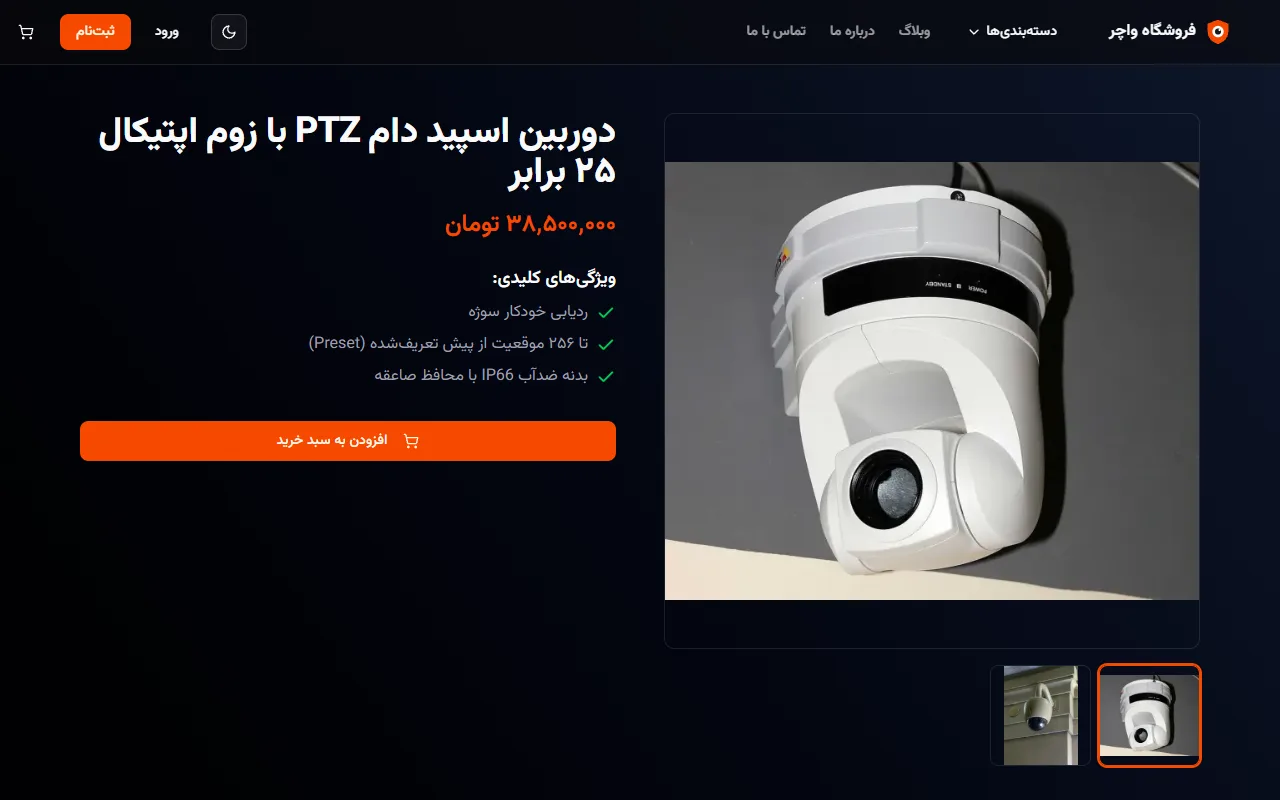
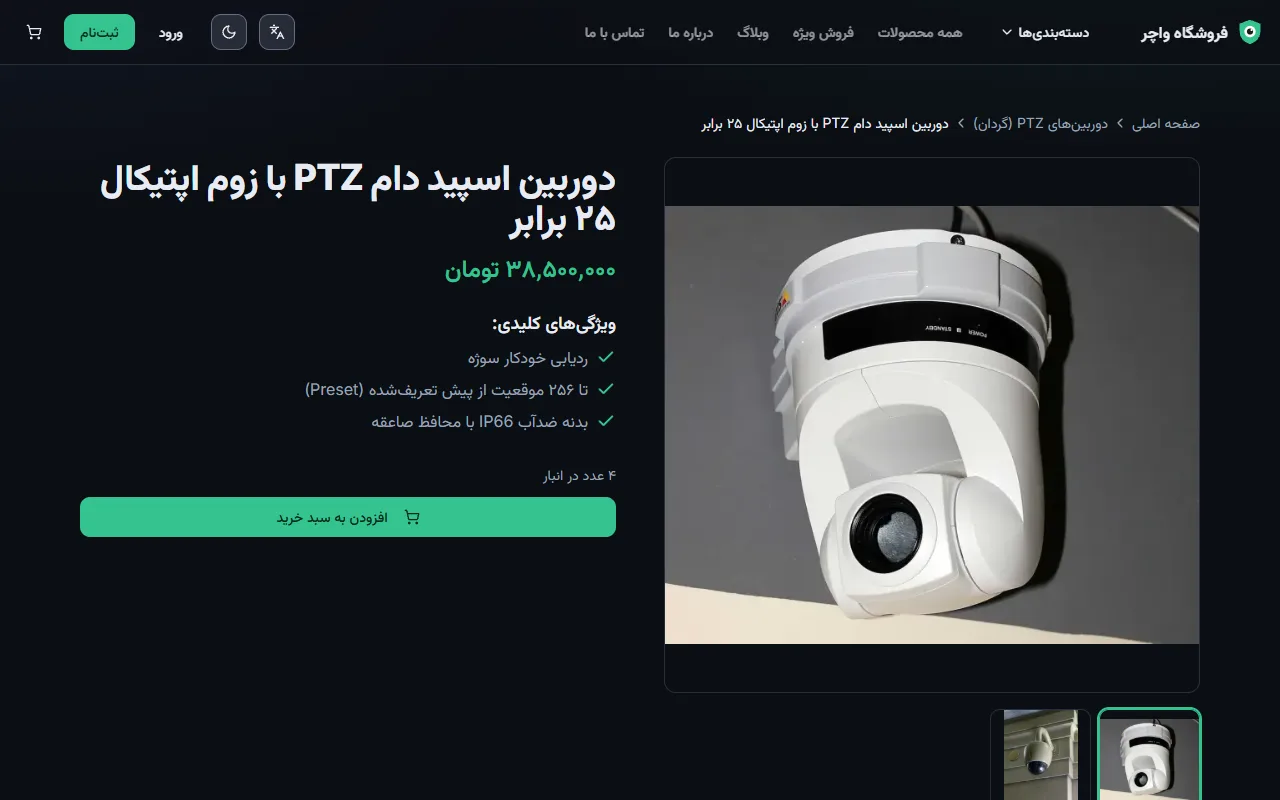
test(e2e): cancelled payments, logging out, refunds; fresh README images
- New browser tests: a payment cancelled at the gateway cancels the
  order; a customer logs out and back in to the page they asked for; the
  administrator cancels a paid order, sees the payment to refund, records
  the refund, and the customer sees it refunded.
- The e2e stack allows 30 logins a minute: the tests now log in more than
  5 times, all from the storefront's one address.
- Admin notices are found by their text: Payload's page has a status
  region of its own.
- E2E_GATEWAY_IN_STACK lets the tests run against apps outside Docker.
- The README's gif and screenshots, recaptured in the Signal theme from a
  freshly seeded store, without the development badge.

diff --git a/e2e/tests/account.spec.ts b/e2e/tests/account.spec.ts
@@ -1,0 +1,186 @@
+// e2e/tests/account.spec.ts
+//
+// What happens around a purchase: a customer who cancels at the gateway,
+// logging out and back in, and an administrator cancelling a paid order
+// and recording its refund. Each test registers its own customer.
+
+import { expect, test, type Page } from '@playwright/test';
+import { randomBytes } from 'node:crypto';
+import {
+  adminAccount,
+  CMS_URL,
+  GATEWAY_FROM_TESTS,
+  GATEWAY_IN_STACK,
+  persianDigits,
+} from './env';
+
+const PRODUCT = 'چشمی دزدگیر PIR دیواری';
+
+interface Customer {
+  email: string;
+  password: string;
+}
+
+// The browser cannot resolve the gateway's in-stack name: send those
+// requests to the mock's published port. cancel: the customer presses
+// "cancel" on the payment page (the mock then returns Status=NOK).
+async function reachGateway(page: Page, { cancel = false } = {}) {
+  await page.route(`${GATEWAY_IN_STACK}/**`, (route) => {
+    const url = new URL(
+      route.request().url().replace(GATEWAY_IN_STACK, GATEWAY_FROM_TESTS),
+    );
+    if (cancel && url.pathname.startsWith('/pg/StartPay/')) {
+      url.searchParams.set('cancel', '1');
+    }
+    return route.continue({ url: url.toString() });
+  });
+}
+
+// A new account, logged in straight away.
+async function register(page: Page): Promise<Customer> {
+  const customer = {
+    email: `e2e-account-${Date.now()}-${randomBytes(3).toString('hex')}@example.test`,
+    password: `e2e-${randomBytes(12).toString('hex')}-Pw`,
+  };
+  await page.goto('/register');
+  await page.getByLabel('ایمیل').fill(customer.email);
+  await page.getByLabel('رمز عبور', { exact: true }).fill(customer.password);
+  await page.getByLabel('تکرار رمز عبور').fill(customer.password);
+  await page.getByRole('button', { name: 'ثبتنام' }).click();
+  await expect(page).toHaveURL(/\/fa$/);
+  return customer;
+}
+
+// One unit of the product, through checkout to the gateway and back to the
+// result page. Returns the order number.
+async function buyOne(page: Page): Promise<number> {
+  await page.goto(`/products?q=${encodeURIComponent('دزدگیر')}`);
+  await page.getByRole('link', { name: PRODUCT }).first().click();
+  await expect(page.getByRole('heading', { level: 1 })).toHaveText(PRODUCT);
+  await page.getByRole('button', { name: 'افزودن به سبد خرید' }).click();
+  await page.getByRole('button', { name: /باز کردن سبد خرید، ۱ کالا/ }).click();
+  await page.getByRole('link', { name: 'ادامه و تسویه حساب' }).click();
+  await expect(page).toHaveURL(/\/checkout$/);
+  await page.getByLabel('نام و نام خانوادگی گیرنده').fill('مشتری آزمایشی');
+  await page.getByLabel('شماره موبایل').fill('09120000000');
+  await page.getByLabel('استان').fill('تهران');
+  await page.getByLabel('شهر').fill('تهران');
+  await page.getByLabel('نشانی کامل').fill('خیابان آزمایش، پلاک ۲');
+  await page.getByLabel('کد پستی').fill('1234567890');
+  await page.getByRole('button', { name: 'ثبت سفارش و پرداخت' }).click();
+  await expect(page).toHaveURL(/\/payment\/result\?orderId=\d+/, {
+    timeout: 30_000,
+  });
+  return Number(new URL(page.url()).searchParams.get('orderId'));
+}
+
+function orderCard(page: Page, orderId: number) {
+  return page.getByRole('listitem').filter({
+    has: page.getByRole('heading', {
+      name: `سفارش #${persianDigits(orderId)}`,
+    }),
+  });
+}
+
+test('a payment cancelled at the gateway cancels the order', async ({
+  page,
+}) => {
+  await reachGateway(page, { cancel: true });
+  await register(page);
+
+  const orderId = await buyOne(page);
+
+  await expect(
+    page.getByRole('heading', { name: 'پرداخت ناموفق' }),
+  ).toBeVisible();
+  await page.goto('/profile');
+  const card = orderCard(page, orderId);
+  await expect(card).toContainText('لغوشده');
+  await expect(card).toContainText('به دلیل ناموفق بودن پرداخت لغو شد.');
+});
+
+test('a customer logs out, and logs back in to the page they asked for', async ({
+  page,
+}) => {
+  const customer = await register(page);
+
+  await page.getByRole('button', { name: 'حساب کاربری' }).click();
+  await page.getByRole('menuitem', { name: 'خروج' }).click();
+  await expect(page).toHaveURL(/\/fa$/);
+  await expect(
+    page.getByRole('banner').getByRole('link', { name: 'ورود' }),
+  ).toBeVisible();
+
+  // Account pages send a visitor to the login page, and back afterwards.
+  await page.goto('/profile');
+  await expect(page).toHaveURL(/\/login\?next=/);
+  await page.getByLabel('ایمیل').fill(customer.email);
+  await page.getByLabel('رمز عبور').fill(customer.password);
+  await page.getByRole('button', { name: 'ورود', exact: true }).click();
+  await expect(page).toHaveURL(/\/profile$/);
+  await expect(
+    page.getByRole('heading', { level: 1, name: 'پروفایل من' }),
+  ).toBeVisible();
+});
+
+test('the administrator cancels a paid order and records the refund', async ({
+  page,
+  browser,
+}) => {
+  await reachGateway(page);
+  await register(page);
+  const orderId = await buyOne(page);
+  await expect(
+    page.getByRole('heading', { name: 'پرداخت موفق' }),
+  ).toBeVisible();
+
+  const admin = adminAccount();
+  const adminPage = await (await browser.newContext()).newPage();
+  await adminPage.goto(`${CMS_URL}/admin/login`);
+  await adminPage.locator('input[name="email"]').fill(admin.email);
+  await adminPage.locator('input[name="password"]').fill(admin.password);
+  await adminPage.getByRole('button', { name: /login|ورود/i }).click();
+  await expect(adminPage).toHaveURL(new RegExp(`${CMS_URL}/admin/?$`));
+
+  await adminPage.goto(`${CMS_URL}/admin/orders`);
+  const row = () =>
+    adminPage.locator('tbody tr').filter({
+      has: adminPage.locator('td:first-child', {
+        hasText: new RegExp(`^${orderId}$`),
+      }),
+    });
+
+  // Cancelling asks for a second click, then flags the payment for a refund.
+  await row().getByText('لغو سفارش', { exact: true }).click();
+  await row()
+    .getByRole('button', { name: /تأیید لغو سفارش/ })
+    .click();
+  // Payload has a status region of its own; this is the Orders view's.
+  await expect(
+    adminPage
+      .getByRole('status')
+      .filter({ hasText: `سفارش ${persianDigits(orderId)}` }),
+  ).toContainText('لغو شد و موجودی کالاها برگشت.');
+  await expect(row()).toContainText('نیاز به بازپرداخت');
+  await expect(row()).toContainText('شماره پیگیری');
+
+  // The money went back (in the gateway's panel): record it.
+  await row().getByText('بازپرداخت انجام شد', { exact: true }).click();
+  await row()
+    .getByRole('button', { name: /تأیید بازپرداخت سفارش/ })
+    .click();
+  await expect(
+    adminPage
+      .getByRole('status')
+      .filter({ hasText: `سفارش ${persianDigits(orderId)}` }),
+  ).toContainText('بهعنوان «بازپرداخت شد» علامت خورد.');
+  await expect(row()).toContainText('بازپرداخت شد');
+  await adminPage.context().close();
+
+  // The customer sees it cancelled by the shop, and refunded.
+  await page.goto('/profile');
+  const card = orderCard(page, orderId);
+  await expect(card).toContainText('لغوشده');
+  await expect(card).toContainText('توسط فروشگاه لغو شد.');
+  await expect(card).toContainText('مبلغ پرداختی به شما بازگردانده شد.');
+});

diff --git a/e2e/capture/capture.spec.ts b/e2e/capture/capture.spec.ts
@@ -6,7 +6,7 @@
 //     pnpm --filter e2e exec playwright test --config capture/capture.config.ts
 // then build the images with capture/build-assets.mjs.
 
-import { test, type Page } from '@playwright/test';
+import { test, type BrowserContext, type Page } from '@playwright/test';
 import { randomBytes } from 'node:crypto';
 import { join } from 'node:path';
 import {
@@ -31,8 +31,21 @@ async function shot(page: Page, name: string, fullPage = false) {
   });
 }
 
+// Next.js shows a badge in a corner of every page when the apps run in
+// development; it does not belong in the README's pictures.
+async function hideDevBadge(context: BrowserContext) {
+  await context.addInitScript(() => {
+    document.addEventListener('DOMContentLoaded', () => {
+      const style = document.createElement('style');
+      style.textContent = 'nextjs-portal { display: none !important; }';
+      document.head.append(style);
+    });
+  });
+}
+
 test('capture the demo store', async ({ page, browser }) => {
   test.setTimeout(180_000);
+  await hideDevBadge(page.context());
   await page.route(`${GATEWAY_IN_STACK}/**`, (route) =>
     route.continue({
       url: route.request().url().replace(GATEWAY_IN_STACK, GATEWAY_FROM_TESTS),
@@ -76,7 +89,10 @@ test('capture the demo store', async ({ page, browser }) => {
       name: 'یکی بیشتر از پنل خورشیدی مونوکریستال ۴۵۰ وات',
     })
     .click();
-  await page.getByRole('dialog').getByText('۲', { exact: true }).waitFor();
+  await page
+    .getByRole('group', { name: 'تعداد پنل خورشیدی مونوکریستال ۴۵۰ وات' })
+    .getByText('۲', { exact: true })
+    .waitFor();
   await shot(page, 'cart');
 
   await page.getByRole('link', { name: 'ادامه و تسویه حساب' }).click();
@@ -109,6 +125,7 @@ test('capture the demo store', async ({ page, browser }) => {
     viewport: { width: 1280, height: 800 },
     colorScheme: 'dark',
   });
+  await hideDevBadge(adminContext);
   const adminPage = await adminContext.newPage();
   await adminPage.goto(`${CMS_URL}/admin/login`);
   await adminPage.locator('input[name="email"]').fill(admin.email);
@@ -120,7 +137,11 @@ test('capture the demo store', async ({ page, browser }) => {
   await adminPage.getByLabel(`کد رهگیری سفارش ${orderId}`).fill('IR1234567890');
   await shot(adminPage, 'admin-orders');
   await adminPage.getByLabel(`کد رهگیری سفارش ${orderId}`).press('Enter');
-  await adminPage.getByRole('status').waitFor();
+  // Payload has a status region of its own; this is the Orders view's.
+  await adminPage
+    .getByRole('status')
+    .filter({ hasText: 'ارسالشده' })
+    .waitFor();
   await shot(adminPage, 'admin-shipped');
   await adminContext.close();
 

diff --git a/e2e/tests/purchase.spec.ts b/e2e/tests/purchase.spec.ts
@@ -115,9 +115,12 @@ test('the administrator ships the order in Payload', async ({ page }) => {
   await page.getByLabel(`کد رهگیری سفارش ${orderId}`).fill(trackingCode);
   await page.getByLabel(`کد رهگیری سفارش ${orderId}`).press('Enter');
 
-  await expect(page.getByRole('status')).toContainText(
-    `سفارش ${persianDigits(orderId)} به «ارسالشده» تغییر کرد.`,
-  );
+  // Payload has a status region of its own; this is the Orders view's.
+  await expect(
+    page
+      .getByRole('status')
+      .filter({ hasText: `سفارش ${persianDigits(orderId)}` }),
+  ).toContainText(`سفارش ${persianDigits(orderId)} به «ارسالشده» تغییر کرد.`);
 });
 
 test('the customer sees the order shipped, with its tracking code', async ({

diff --git a/e2e/tests/env.ts b/e2e/tests/env.ts
@@ -6,8 +6,10 @@ export const CMS_URL = process.env.E2E_CMS_URL ?? 'http://localhost:3000';
 
 // The gateway address Nest hands to browsers (ZARINPAL_BASE_URL in
 // docker-compose.e2e.yml) is a container name; the tests' browser reaches
-// the same mock at its published port.
-export const GATEWAY_IN_STACK = 'http://zarinpal-mock:4010';
+// the same mock at its published port. E2E_GATEWAY_IN_STACK: the address
+// Nest uses, when the apps run outside Docker.
+export const GATEWAY_IN_STACK =
+  process.env.E2E_GATEWAY_IN_STACK ?? 'http://zarinpal-mock:4010';
 export const GATEWAY_FROM_TESTS =
   process.env.E2E_GATEWAY_URL ?? 'http://localhost:4010';
 
